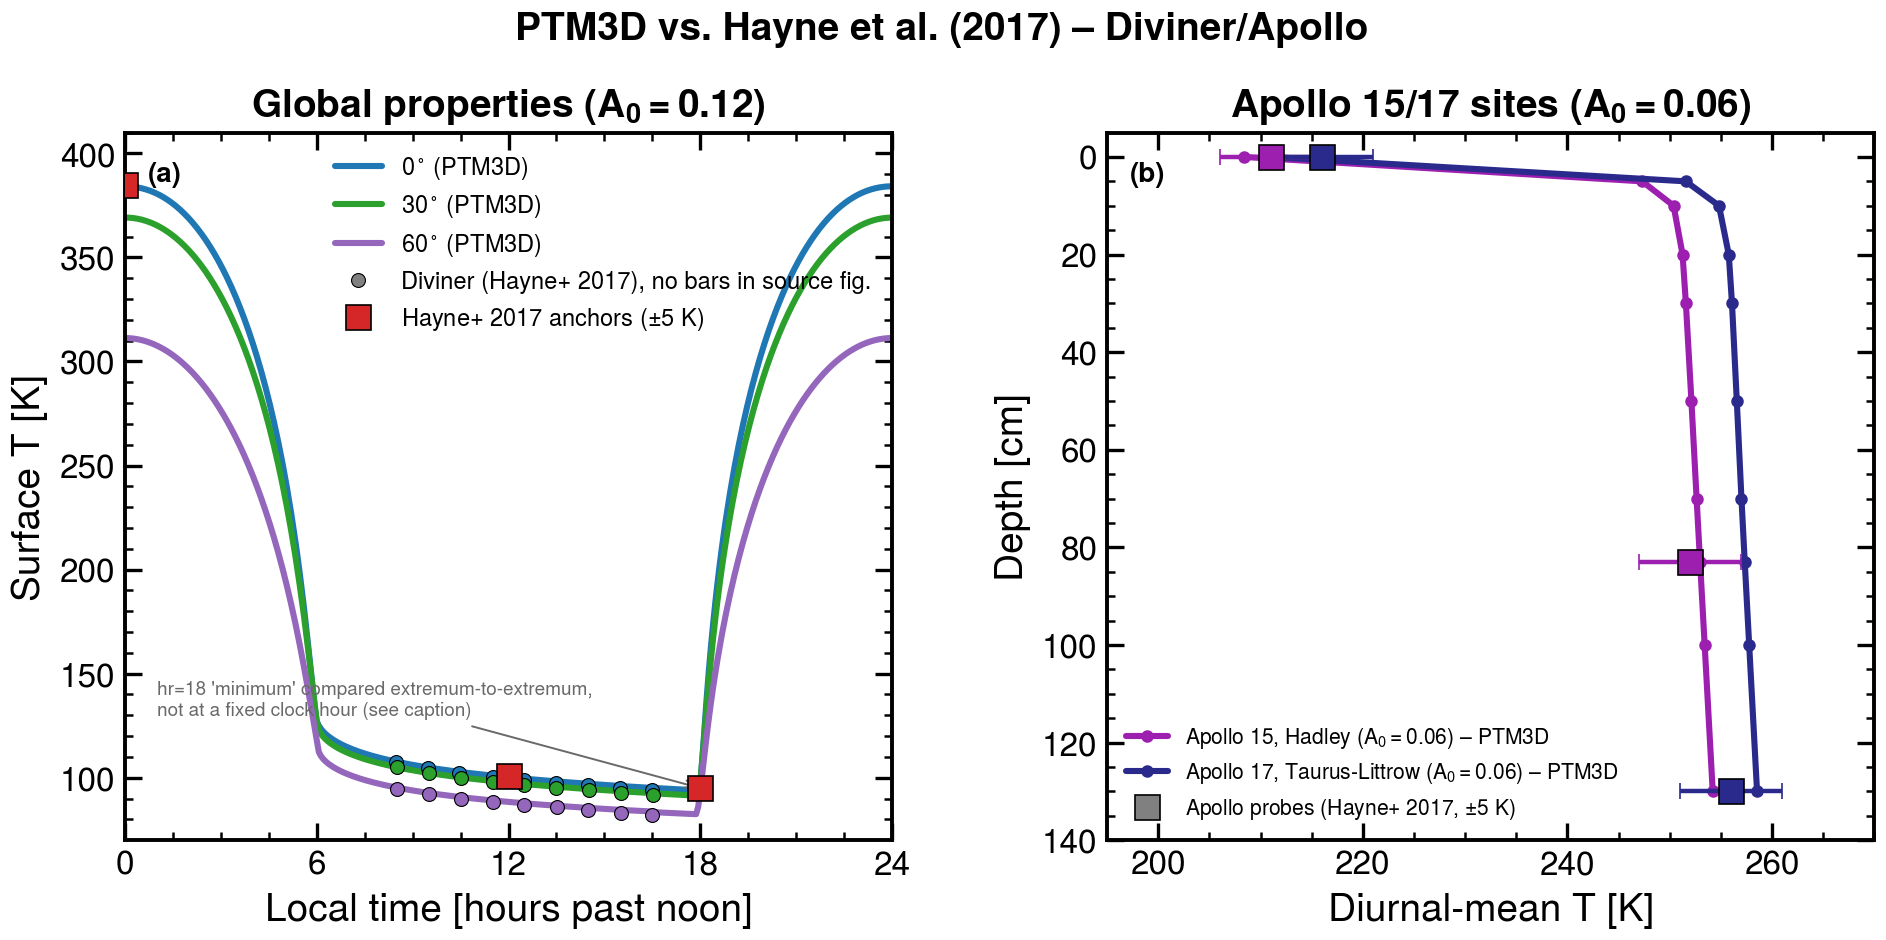
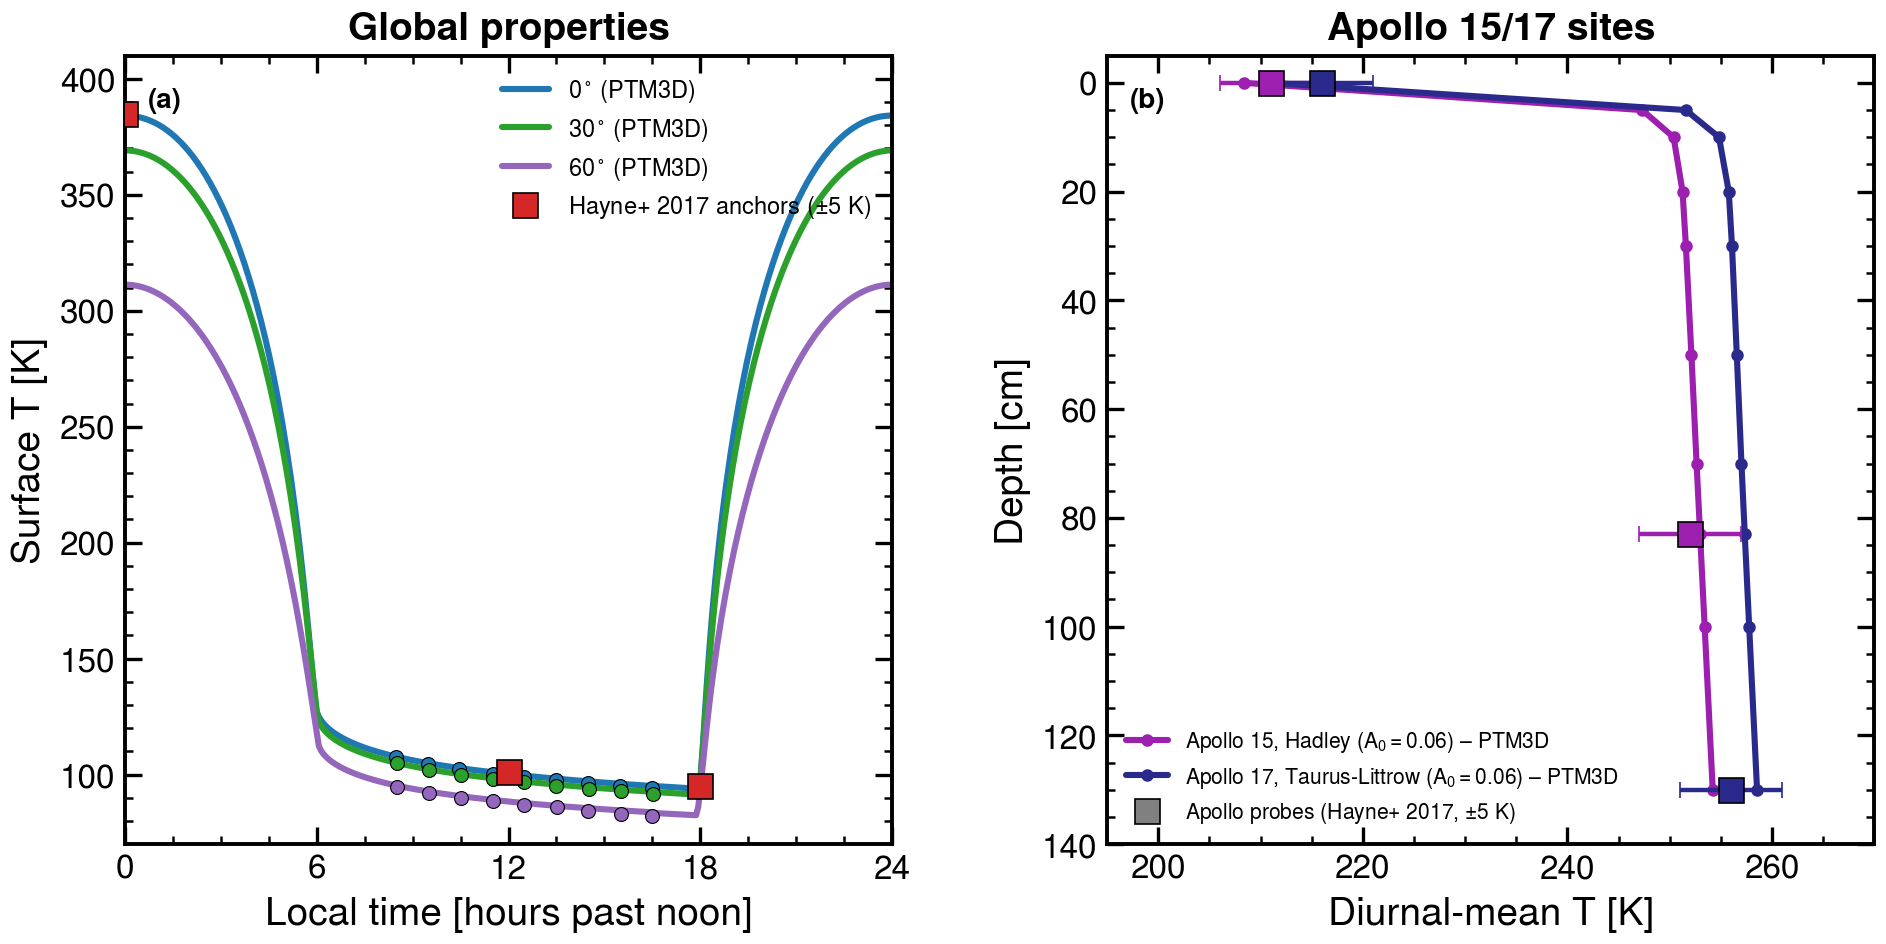
docs(readme): Fig. 5 caption polish -- condense, de-bookkeep, drop manuscript leaning
Paul's post-merge polish pass on the shipped Fig. 5 (Option A). Same data,
no re-run -- residuals reproduce exactly (verified: Apollo15 -2.60/+0.98 K,
Apollo17 -4.91/+2.55 K, panel (a) 1.05/1.61 K, all unchanged).

Figure (make_fig05_option_a.py, local at
~/projects/moon3d_fig5_option_a_final_2026-08-17/, not tracked here):
- removed the panel (a) "no bars in source fig." legend entry (Diviner dots
  still plotted, still bar-free -- only the legend label is gone).
- removed the panel (a) "hr=18 'minimum'..." annotation and its arrow.
- dropped the "(A0 = ...)" albedo notation from both panel subtitles --
  now just "Global properties" / "Apollo 15/17 sites"; the albedo values
  stay in the caption and docs/VALIDATION.md.
- removed the main suptitle and cropped tightly (bbox_inches='tight',
  pad_inches=0.06) -- no dead space where the title was.
- new png md5 eb2030eec99d35c30a7aab3346e110ea, copied byte-identical to
  this repo's docs/figures/.

README.md caption: condensed from 417 to 123 words (70% reduction, exceeds
the ~50% target) and rewritten in a planetary-scientist register -- leads
with what is compared (PTM3D vs. Diviner and Apollo 15/17), names the
primary data sources (Diviner Lunar Radiometer Experiment; Apollo
heat-flow probes, Langseth et al. 1976), states agreement level per panel
(<=1.6 K panel a, <=4.9 K panel b, both inside +/-5 K), and one sentence on
the site-specific albedo (A0=0.06 vs. the Table 1 global 0.12). Dropped
[…]

diff --git a/README.md b/README.md
@@ -112,43 +112,19 @@ and thermal emission from surrounding terrain.*
 **Full validation gallery (all seven manuscript figures, Figs. 3–9, with
 headline numbers for each): [`docs/VALIDATION.md`](docs/VALIDATION.md).**
 
-![PTM3D re-run of manuscript Fig. 5's tests: PTM3D vs. Hayne et al. (2017), Diviner, and Apollo](docs/figures/validation_fig05_ptm3d_hayne_apollo.png)
-*PTM3D-native re-run of the submitted manuscript's Fig. 5 tests (`main.tex`,
-"Validation of the 3D thermophysical model with comparison to Diviner data
-(left panel) and Apollo heat flow probe data (right panel)"), run through
-PTM3D itself end to end — smooth global icosphere (radiation exchange OFF is
-exact for a convex body), CPU-only, body=Moon. **(a)** Global Table 1
-(Hayne et al. 2017) thermophysical properties, A₀ = 0.12: equatorial/30°/60°
-PTM3D diurnal surface-temperature curves vs. Diviner brightness temperatures
-and the Hayne et al. (2017) equatorial peak/midnight/minimum reference
-points (all carry the manuscript's own ±5 K error bars; the 27 nighttime
-Diviner dots are bare in the source figure and are plotted without invented
-bars). Max |PTM3D − reference| = **1.05 K** at the three bar-carrying
-anchors. The local-time axis is anchored on PTM3D's own diurnal maximum
-(hr = 0 by construction), so the hr = 18 "minimum" anchor is scored
-extremum-to-extremum — PTM3D's own diurnal minimum falls one output sample
-(≈2 h of real lunar local time) before hr = 18, residual **−1.05 K**;
-scored instead at the literal hr = 18.00 point the residual is **+2.74 K**,
-also inside the bar (both numbers reported, see `docs/VALIDATION.md` for
-detail). Bare-dot residuals: **1.61 K** (RMS 0.75 K) at the 27 bare dots,
-informative only. **(b)** Apollo 15 (Hadley–Apennine) and Apollo 17
-(Taurus–Littrow, dark pyroclastic-mantle terrain) landing sites at their own
-site-specific Bond albedo, A₀ = 0.06 (the value that clears all four probe
-points; consistent with Hayne et al. 2017's practice of site-specific
-Apollo albedos, but their exact per-site values are not independently
-verified here) — all other properties unchanged from Table 1 (no evidence
-for a lower density e-folding depth H at either site, so H stays at the
-Table 1 default). Equilibrated 480 lunar day/night cycles at thermal grid
-resolution `thermal_b = 45` (bottom node 1.41 m, the convergence study's
-accepted working point); both scored deep points (0.83 m, 1.30 m) fall
-within that genuinely-solved grid, so the model curves are drawn solid
-throughout, with no extrapolated segment. The manuscript plots the Apollo
-17 deep point at 13 cm; the probe's actual reference depth is 130 cm
-(confirmed by the author — a 10× error in the source figure; Langseth
-et al. 1976 report the probe depths), scored here at the corrected depth
-(inside its bar at either depth, see `docs/VALIDATION.md`). **Max
-|PTM3D − reference| = 4.91 K** (Apollo 17 surface, 0.09 K inside its
-±5 K bar) — **all four Apollo points land inside their ±5 K bars.***
+![PTM3D-modeled lunar diurnal temperatures vs. Diviner and Apollo 15/17 measurements](docs/figures/validation_fig05_ptm3d_hayne_apollo.png)
+*PTM3D-modeled lunar diurnal temperatures compared with Diviner Lunar Radiometer
+Experiment brightness temperatures and Apollo 15/17 heat-flow-probe measurements
+(Langseth et al. 1976). **(a)** Modeled surface temperature at the equator, 30°N,
+and 60°N over one lunation, using global Table 1 thermophysical properties,
+against Diviner nighttime brightness temperatures and the Hayne et al. (2017)
+noon/midnight/minimum reference points; residuals are ≤1.6 K wherever the
+reference data carry uncertainties (±5 K). **(b)** Modeled diurnal-mean
+subsurface temperature at the Apollo 15 (Hadley–Apennine) and Apollo 17
+(Taurus–Littrow) landing sites, each modeled at its own Bond albedo
+(A₀ = 0.06) rather than the Table 1 global default; residuals at the surface
+and at the probes' own depths are ≤4.9 K, inside the ±5 K measurement
+uncertainty at both sites. Details: [`docs/VALIDATION.md`](docs/VALIDATION.md).*
 
 ![Manuscript Fig. 7: bowl-crater comparison to Ingersoll et al. (1992)](docs/figures/validation_fig07_bowl_crater_ingersoll.png)
 *PTM3D vs. the analytic bowl-crater solution of Ingersoll, Svitek & Murray

diff --git a/docs/VALIDATION.md b/docs/VALIDATION.md
@@ -37,20 +37,19 @@ settling in the first ~30 cycles.
 
 ## Manuscript Fig. 5 — Thermal-column validation vs. Diviner and Apollo
 
-![PTM3D re-run of manuscript Fig. 5's tests: PTM3D vs. Hayne et al. (2017), Diviner, and Apollo](figures/validation_fig05_ptm3d_hayne_apollo.png)
+![PTM3D-modeled lunar diurnal temperatures vs. Diviner and Apollo 15/17 measurements](figures/validation_fig05_ptm3d_hayne_apollo.png)
 
-Manuscript caption: "Validation of the 3D thermophysical model with
-comparison to Diviner data (left panel) and Apollo heat flow probe data
-(right panel)." The image above is a PTM3D-native re-run of the same two
-tests, run end to end through the 3D thermal-illumination framework: **(a)**
-the global diurnal-cycle/Diviner comparison at the manuscript's Table 1
-(Hayne et al. 2017) properties, and **(b)** the Apollo 15/17 heat-flow-probe
-comparison at each site's own albedo.
+PTM3D modeled two thermal-column comparisons end to end through the full 3D
+thermal-illumination framework (this corresponds to Figure 5 of the
+submitted Moon3D manuscript, currently in review): **(a)** a global
+diurnal-cycle comparison against Diviner brightness temperatures at Hayne
+et al. (2017) Table 1 properties, and **(b)** an Apollo 15/17
+heat-flow-probe comparison at each site's own albedo.
 
 **Recipe, panel (a):** smooth global icosphere, resolution 6 (81,920 faces;
 a convex body makes `radiation.enabled: false` physically exact, not an
 approximation), CPU-only illumination and thermal solve, body=Moon using
-the manuscript's own Table 1 properties unmodified — Bond albedo
+Hayne et al. (2017) Table 1 properties unmodified — Bond albedo
 A₀ = 0.12, all other properties Table 1 (`thermal_m/n/b = 10/15/15`,
 unchanged from the tracked default), `equilibration_orbits: 60` (a
 2/5/10/20/30/45-orbit convergence sweep showed the ≳0.4 m diurnal-mean
@@ -89,16 +88,16 @@ model curves are drawn solid throughout — no extrapolated segment.
 
 Reference points (Diviner nighttime dots, Hayne et al. 2017 equatorial
 peak/midnight/minimum squares, Apollo 15/17 probe points) were digitized
-from the submitted manuscript's own `fig05.pdf` vector content (exact
-marker/axis-tick coordinates, not pixel-eyeballing), **with one correction**:
-the manuscript plots the Apollo 17 deep point at a depth of 13 cm, but the
-probe's actual reference depth is 130 cm (confirmed by the author; the
-original measurements are Langseth et al. 1976's Apollo 17 heat-flow-probe
-depths) — a 10× digitization/transcription error in the source figure. This
-render scores Apollo 17's deep point at the corrected 130 cm; the point is
-inside its ±5 K bar at either depth (**−0.89 K** at the literal 13 cm the
-manuscript plots, **+2.55 K** at the corrected 130 cm), so the correction
-does not change the pass/fail outcome, only which depth is being claimed.
+from Hayne et al. (2017)'s own Figure 5 vector content, as reproduced in
+the submitted Moon3D manuscript (exact marker/axis-tick coordinates, not
+pixel-eyeballing), **with one correction**: that figure plots the Apollo 17
+deep point at a depth of 13 cm, but the probe's actual reference depth is
+130 cm (Langseth et al. 1976 report the probe depths; confirmed directly
+with the author) — a 10× digitization/transcription error. This render
+scores Apollo 17's deep point at the corrected 130 cm; the point is inside
+its ±5 K bar at either depth (**−0.89 K** at the literal 13 cm,
+**+2.55 K** at the corrected 130 cm), so the correction does not change the
+pass/fail outcome, only which depth is being claimed.
 Every reference marker in the source figure carries a ±5 K error bar,
 reproduced here unchanged. The Apollo probe temperatures and Diviner
 brightness temperatures are themselves independent measurements —
